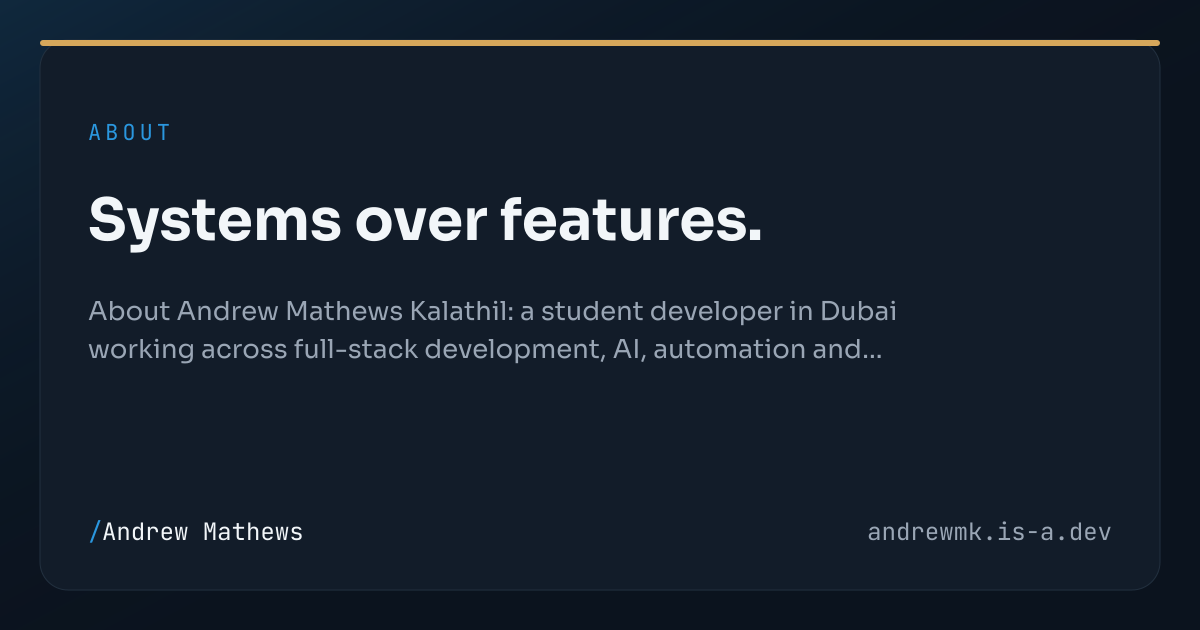
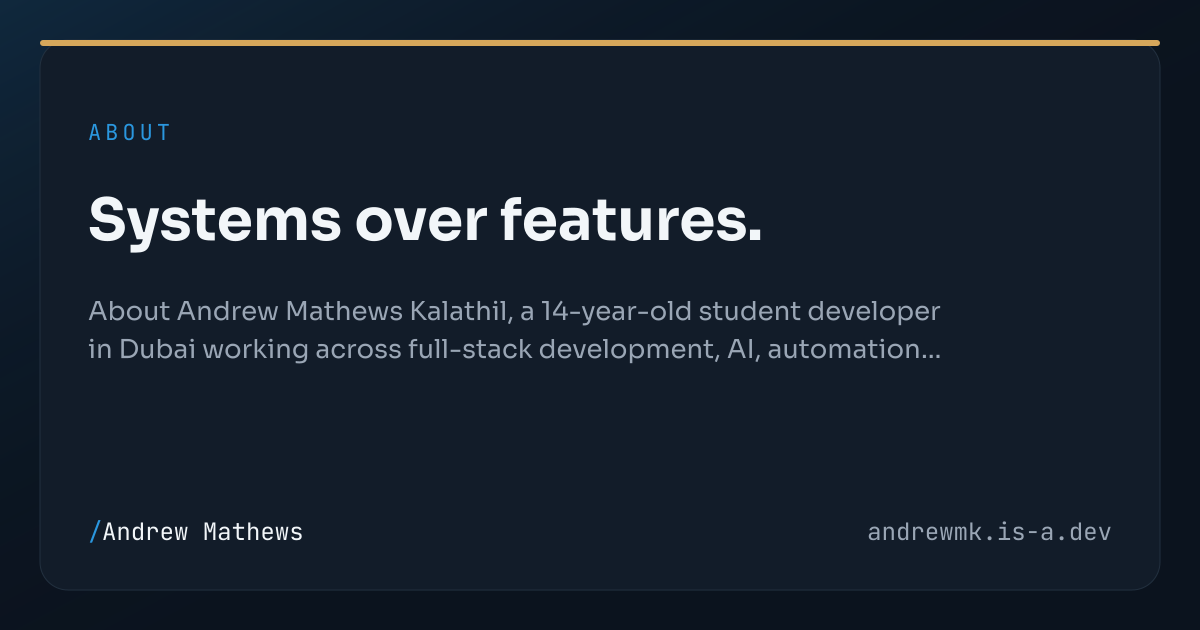
Update identity and age information across site content and SEO data

Changed region(s): [[0.0617, 0.5429, 0.7708, 0.573], [0.4317, 0.4825, 0.8017, 0.5127]]

diff --git a/src/data/pressKit.ts b/src/data/pressKit.ts
@@ -21,42 +21,42 @@ export const bios: BioVariant[] = [
     label: "Short · first person",
     person: "first",
     length: "short",
-    body: "I'm Andrew Mathews Kalathil, a student developer and AI builder from Dubai. I started building with robotics at age 9 and now build AI applications, web products and systems that solve real problems.",
+    body: "I'm Andrew Mathews Kalathil, a 14-year-old student developer and AI builder from Dubai. I started building with robotics at age 9 and now build AI applications, web products and systems that solve real problems.",
   },
   {
     id: "short-third",
     label: "Short · third person",
     person: "third",
     length: "short",
-    body: "Andrew Mathews Kalathil is a student developer and AI builder from Dubai, UAE. He started building with robotics at age 9 and now builds AI applications, web products and systems that solve real problems.",
+    body: "Andrew Mathews Kalathil is a 14-year-old student developer and AI builder from Dubai, UAE. He started building with robotics at age 9 and now builds AI applications, web products and systems that solve real problems.",
   },
   {
     id: "medium-first",
     label: "Medium · first person",
     person: "first",
     length: "medium",
-    body: "I'm Andrew Mathews Kalathil, a student developer and systems thinker based in Dubai. I work across artificial intelligence, software development, robotics and product design. I started with the Mbot@IHS robotics programme at age 9, and moved from there into software, AI and computer vision. Today I build everything from small Python experiments to full product systems such as Gradr, TerraCart and ClientFlow OS, and I compete in STEM and engineering challenges, take part in Model United Nations conferences, and show projects at exhibitions.",
+    body: "I'm Andrew Mathews Kalathil, a 14-year-old student developer and systems thinker based in Dubai. I work across artificial intelligence, software development, robotics and product design. I started with the Mbot@IHS robotics programme at age 9, and moved from there into software, AI and computer vision. Today I build everything from small Python experiments to full product systems such as Gradr, TerraCart and ClientFlow OS, and I compete in STEM and engineering challenges, take part in Model United Nations conferences, and show projects at exhibitions.",
   },
   {
     id: "medium-third",
     label: "Medium · third person",
     person: "third",
     length: "medium",
-    body: "Andrew Mathews Kalathil is a student developer and systems thinker based in Dubai, UAE. He works across artificial intelligence, software development, robotics and product design. He began with the Mbot@IHS robotics programme at age 9 and moved from there into software, AI and computer vision. He now builds everything from small Python experiments to full product systems such as Gradr, TerraCart and ClientFlow OS, competes in STEM and engineering challenges, takes part in Model United Nations conferences, and shows projects at exhibitions.",
+    body: "Andrew Mathews Kalathil is a 14-year-old student developer and systems thinker based in Dubai, UAE. He works across artificial intelligence, software development, robotics and product design. He began with the Mbot@IHS robotics programme at age 9 and moved from there into software, AI and computer vision. He now builds everything from small Python experiments to full product systems such as Gradr, TerraCart and ClientFlow OS, competes in STEM and engineering challenges, takes part in Model United Nations conferences, and shows projects at exhibitions.",
   },
   {
     id: "long-first",
     label: "Long · first person",
     person: "first",
     length: "long",
-    body: "I'm Andrew Mathews Kalathil, a student developer and AI builder from Dubai, United Arab Emirates, and a student at The Indian High School, Dubai. I don't just learn technology — I apply it. I started building in 2022 at age 9 through the Mbot@IHS robotics programme, where I built and presented an original model at a school exhibition. That gave me the instinct to build physically; from there I moved deeper into software, AI, computer vision and product development.\n\nToday I work across AI applications and assistants, full-stack web products, robotics and engineering, and data work. My flagship products are Gradr, an AI career accelerator; Stack Up, a personal-finance app built around gamification; TerraCart, a sustainable shopping assistant; and ClientFlow OS, a business operating system. Alongside them sits a larger archive of tools and experiments.\n\nOutside of building, I compete in STEM and engineering challenges — Techfest, FIRST LEGO League and F1 in Schools / STEM Racing — take part in Model United Nations conferences, and demonstrate projects at exhibitions. I care about systems over features, shipping over theory, and starting from a problem worth solving.",
+    body: "I'm Andrew Mathews Kalathil, a 14-year-old student developer and AI builder from Dubai, United Arab Emirates, and a student at The Indian High School, Dubai. I don't just learn technology — I apply it. I started building in 2022 at age 9 through the Mbot@IHS robotics programme, where I built and presented an original model at a school exhibition. That gave me the instinct to build physically; from there I moved deeper into software, AI, computer vision and product development.\n\nToday I work across AI applications and assistants, full-stack web products, robotics and engineering, and data work. My flagship products are Gradr, an AI career accelerator; Stack Up, a personal-finance app built around gamification; TerraCart, a sustainable shopping assistant; and ClientFlow OS, a business operating system. Alongside them sits a larger archive of tools and experiments.\n\nOutside of building, I compete in STEM and engineering challenges — Techfest, FIRST LEGO League and F1 in Schools / STEM Racing — take part in Model United Nations conferences, and demonstrate projects at exhibitions. I care about systems over features, shipping over theory, and starting from a problem worth solving.",
   },
   {
     id: "long-third",
     label: "Long · third person",
     person: "third",
     length: "long",
-    body: "Andrew Mathews Kalathil is a student developer and AI builder from Dubai, United Arab Emirates, and a student at The Indian High School, Dubai. He describes his approach simply: he does not just learn technology, he applies it. He started building in 2022 at age 9 through the Mbot@IHS robotics programme, where he built and presented an original model at a school exhibition — the beginning of a move from hardware into software, AI, computer vision and product development.\n\nHe works across AI applications and assistants, full-stack web products, robotics and engineering, and data work. His flagship products are Gradr, an AI career accelerator; Stack Up, a personal-finance app built around gamification; TerraCart, a sustainable shopping assistant; and ClientFlow OS, a business operating system, alongside a larger archive of tools and experiments.\n\nOutside of building, he competes in STEM and engineering challenges — Techfest, FIRST LEGO League and F1 in Schools / STEM Racing — takes part in Model United Nations conferences, and demonstrates projects at exhibitions. His working principles are systems over features, shipping first and improving always, and starting from a real problem.",
+    body: "Andrew Mathews Kalathil is a 14-year-old student developer and AI builder from Dubai, United Arab Emirates, and a student at The Indian High School, Dubai. He describes his approach simply: he does not just learn technology, he applies it. He started building in 2022 at age 9 through the Mbot@IHS robotics programme, where he built and presented an original model at a school exhibition — the beginning of a move from hardware into software, AI, computer vision and product development.\n\nHe works across AI applications and assistants, full-stack web products, robotics and engineering, and data work. His flagship products are Gradr, an AI career accelerator; Stack Up, a personal-finance app built around gamification; TerraCart, a sustainable shopping assistant; and ClientFlow OS, a business operating system, alongside a larger archive of tools and experiments.\n\nOutside of building, he competes in STEM and engineering challenges — Techfest, FIRST LEGO League and F1 in Schools / STEM Racing — takes part in Model United Nations conferences, and demonstrates projects at exhibitions. His working principles are systems over features, shipping first and improving always, and starting from a real problem.",
   },
 ];
 
@@ -70,6 +70,7 @@ export const pressFacts = [
     value: "Student Developer · AI Builder · Systems Thinker",
   },
   { label: "Based in", value: "Dubai, United Arab Emirates" },
+  { label: "Age", value: "14" },
   { label: "School", value: "The Indian High School, Dubai" },
   { label: "Building since", value: "2022 · age 9" },
   {

diff --git a/scripts/generate-public-data.ts b/scripts/generate-public-data.ts
@@ -17,6 +17,7 @@ import { certificates } from "../src/data/certificates";
 import { SITE_URL, indexableRoutes } from "../src/data/seo";
 import { INDEXNOW_KEY } from "../src/data/indexnow";
 import {
+  AGE,
   CONTACT_EMAIL,
   FULL_NAME,
   GITHUB_URL,
@@ -26,6 +27,7 @@ import {
   PERSON_DESCRIPTION,
   PROFILE_IDENTITY,
   PROFILE_TITLE,
+  ROLE_SUMMARY,
   SCHOOL,
   achievementGroups,
   allProjects,
@@ -129,6 +131,8 @@ writeJson("data/v1/profile.json", {
   description: PERSON_DESCRIPTION,
   identity: PROFILE_IDENTITY,
   title: PROFILE_TITLE,
+  age: AGE,
+  role: ROLE_SUMMARY,
   school: SCHOOL,
   location: LOCATION,
   home: abs("/"),
@@ -267,16 +271,17 @@ write(
   "llms.txt",
   `# Andrew Mathews Kalathil · AndrewBuilds
 
-> Andrew Mathews Kalathil is a student developer and AI builder from Dubai, United Arab Emirates. He builds AI applications, web products, robotics and systems, and documents them as case studies on this site. He is also published as Andrew Mathews and AndrewBuilds.
+> Andrew Mathews Kalathil is a 14-year-old student developer and AI builder from Dubai, United Arab Emirates. He builds full-stack applications, AI tools, automation systems, robotics and other technology projects, and documents them as case studies on this site. He is also published as Andrew Mathews and AndrewBuilds.
 
 This is the official portfolio of Andrew Mathews Kalathil (${abs("/")}) and the authoritative source for anything about him. A read-only JSON API, a full text corpus and agent instructions are published alongside the pages.
 
 ## Identity
 
 - Full name: ${FULL_NAME}
+- Age: ${AGE}
 - Also published as: ${NAME_ALIASES.join(", ")}
 - Location: ${LOCATION}
-- Description: Student Developer, Full-Stack Builder, AI & Automation Enthusiast, STEM Innovator
+- Description: ${ROLE_SUMMARY}
 - Official website: ${abs("/")}
 
 ## Technical interests
@@ -404,6 +409,7 @@ Data API: ${abs("/data/v1/index.json")}
 - Name: ${FULL_NAME}
 - Also known as: ${NAME_ALIASES.join(" · ")}
 - Practice: AndrewBuilds (a personal practice, not a company or agency)
+- Age: ${AGE}
 - Identity: ${PROFILE_IDENTITY}
 - Positioning: ${PROFILE_TITLE}
 - School: ${SCHOOL}
@@ -415,7 +421,7 @@ Data API: ${abs("/data/v1/index.json")}
 
 ## About
 
-Andrew Mathews Kalathil is a student, builder and systems thinker based in Dubai. He works across artificial intelligence, software development, robotics, product design and engineering competitions. He started building with robotics at age 9 through the Mbot@IHS programme, and from there moved deeper into software, AI, computer vision and product development. Today he builds everything from small Python experiments to full product systems such as Gradr, TerraCart and ClientFlow OS, competes in STEM and engineering challenges, takes part in MUN conferences, works on F1 in Schools / STEM Racing, and shows projects at exhibitions.
+Andrew Mathews Kalathil is a 14-year-old student developer, builder and systems thinker based in Dubai. He works across artificial intelligence, full-stack software development, automation, robotics, product design and engineering competitions. He started building with robotics at age 9 through the Mbot@IHS programme, and from there moved deeper into software, AI, computer vision and product development. Today he builds everything from small Python experiments to full product systems such as Gradr, TerraCart and ClientFlow OS, competes in STEM and engineering challenges, takes part in MUN conferences, works on F1 in Schools / STEM Racing, and shows projects at exhibitions.
 
 Working principles:
 
@@ -496,7 +502,7 @@ This file describes how to talk about Andrew Mathews Kalathil (also published as
 
 ## Who Andrew is
 
-Andrew Mathews Kalathil is a student developer and AI builder from Dubai, United Arab Emirates, and a student at ${SCHOOL}. He has been building since 2022, when he was 9, starting with robotics and moving into software, AI, computer vision and product development. AndrewBuilds is the name he uses for his work and his online profiles. It is a personal practice — **not a company, studio or agency**.
+Andrew Mathews Kalathil is a 14-year-old student developer and AI builder from Dubai, United Arab Emirates, and a student at ${SCHOOL}. He has been building since 2022, when he was 9, starting with robotics and moving into software, AI, computer vision and product development. AndrewBuilds is the name he uses for his work and his online profiles. It is a personal practice — **not a company, studio or agency**.
 
 ## What is on this site
 

diff --git a/src/data/seo.ts b/src/data/seo.ts
@@ -57,13 +57,13 @@ export const routes: RouteMeta[] = [
   {
     path: "/",
     label: "Home",
-    title: "Andrew Mathews Kalathil | Student Developer & AI Builder",
+    title: "Andrew Mathews Kalathil | 14-Year-Old Developer & AI Builder",
     description:
-      "Official portfolio of Andrew Mathews Kalathil, a student developer from Dubai building software, AI applications, automation tools and STEM projects.",
-    ogHeadline: "Student developer & AI builder",
+      "Meet Andrew Mathews Kalathil, a 14-year-old student developer from Dubai building full-stack applications, AI tools, automation systems and technology projects.",
+    ogHeadline: "14-year-old developer & AI builder",
     ogLabel: "Andrew Mathews Kalathil",
     ogDescription:
-      "Building AI applications, web products, robotics and STEM projects from Dubai, UAE.",
+      "Building full-stack applications, AI tools and automation systems from Dubai, UAE.",
     changefreq: "weekly",
     priority: "1.0",
   },
@@ -82,7 +82,7 @@ export const routes: RouteMeta[] = [
     label: "About",
     title: "About Andrew Mathews Kalathil — Developer in Dubai",
     description:
-      "About Andrew Mathews Kalathil: a student developer in Dubai working across full-stack development, AI, automation and robotics, and how he approaches building.",
+      "About Andrew Mathews Kalathil, a 14-year-old student developer in Dubai working across full-stack development, AI, automation and robotics.",
     ogHeadline: "Systems over features.",
     changefreq: "monthly",
     priority: "0.8",
@@ -92,7 +92,7 @@ export const routes: RouteMeta[] = [
     label: "Journey",
     title: "Andrew Mathews Kalathil — Journey & Timeline",
     description:
-      "From a robotics programme at age 9 to shipping AI products: the timeline behind Andrew Mathews Kalathil's work as a student developer in Dubai.",
+      "From a robotics programme at age 9 to shipping AI products at 14: the timeline behind Andrew Mathews Kalathil's work as a student developer in Dubai.",
     ogHeadline: "From robotics at 9 to shipping AI products.",
     changefreq: "monthly",
     priority: "0.7",
@@ -132,7 +132,7 @@ export const routes: RouteMeta[] = [
     label: "Profile",
     title: "Andrew Mathews Kalathil — Developer Profile",
     description:
-      "A profile view of Andrew Mathews Kalathil — about, projects, education, honours, certifications, skills and every place to find him online.",
+      "A profile view of Andrew Mathews Kalathil, a 14-year-old student developer in Dubai — projects, education, honours, certifications, skills and links.",
     ogHeadline: "Student developer, AI builder, systems thinker.",
     changefreq: "monthly",
     priority: "0.8",
@@ -349,7 +349,7 @@ export function websiteJsonLd() {
     name: SITE_NAME,
     alternateName: SHORT_NAME,
     url: `${SITE_URL}/`,
-    description: `The official portfolio of ${FULL_NAME}, a student developer and AI builder in Dubai, UAE.`,
+    description: `The official portfolio of ${FULL_NAME}, a 14-year-old student developer and AI builder in Dubai, UAE.`,
     inLanguage: "en",
     author: { "@id": PERSON_ID },
     publisher: { "@id": PERSON_ID },

diff --git a/src/pages/Profile.tsx b/src/pages/Profile.tsx
@@ -84,7 +84,8 @@ export default function Profile() {
                       Andrew Mathews Kalathil
                     </h1>
                     <p className="mt-1.5 text-primary">
-                      Student Developer · AI Builder · Robotics &amp; Systems
+                      14-Year-Old Developer · AI Builder · Robotics &amp;
+                      Systems
                     </p>
                     <p className="mt-2 flex items-center gap-1.5 font-mono text-xs text-muted-foreground">
                       <MapPin className="size-3.5 text-gold" />
@@ -132,12 +133,12 @@ export default function Profile() {
 
           <Panel icon={Globe} title="About">
             <p className="text-sm leading-relaxed text-muted-foreground md:text-base">
-              I'm a student developer from Dubai who builds AI systems, software
-              products and robotics projects. I started with a school robotics
-              programme at nine and have been shipping ever since — from
-              computer-vision experiments and Python tools to full AI-powered
-              products. I care about systems that solve a complete problem, not
-              features in isolation.
+              I'm a 14-year-old student developer from Dubai who builds AI
+              systems, software products and robotics projects. I started with a
+              school robotics programme at nine and have been shipping ever
+              since — from computer-vision experiments and Python tools to full
+              AI-powered products. I care about systems that solve a complete
+              problem, not features in isolation.
             </p>
             <ul className="mt-5 grid gap-2 sm:grid-cols-2">
               {currentlyBuilding.map((item) => (

diff --git a/src/pages/Home.tsx b/src/pages/Home.tsx
@@ -124,8 +124,8 @@ export default function Home() {
               {/* Real page heading for search engines and screen readers; the
                   animated display line below stays exactly as designed. */}
               <span className="sr-only">
-                Andrew Mathews Kalathil — Student Developer, AI Builder &amp;
-                Robotics Engineer
+                Andrew Mathews Kalathil — 14-Year-Old Student Developer, AI
+                Builder &amp; Robotics Engineer
               </span>
               <span aria-hidden="true" className="relative block">
                 <span className="block">
@@ -162,10 +162,11 @@ export default function Home() {
               style={{ animationDelay: "120ms" }}
               className="enter-rise mt-6 max-w-xl text-base leading-relaxed text-muted-foreground md:text-lg"
             >
-              I&rsquo;m Andrew Mathews Kalathil — a student developer and AI
-              builder from Dubai, UAE. This is my official portfolio: I build
-              software, experiment with AI, compete in STEM and engineering
-              challenges, and turn ideas into working products.
+              I&rsquo;m Andrew Mathews Kalathil — a 14-year-old student
+              developer and AI builder from Dubai, UAE. This is my official
+              portfolio: I build full-stack software, experiment with AI,
+              compete in STEM and engineering challenges, and turn ideas into
+              working products.
             </p>
 
             <div

diff --git a/src/pages/About.tsx b/src/pages/About.tsx
@@ -44,8 +44,8 @@ export default function About() {
                     stagger={0.028}
                     duration={0.7}
                   >
-                    I'm Andrew Mathews Kalathil — a student, builder, and
-                    systems thinker based in Dubai.{" "}
+                    I'm Andrew Mathews Kalathil — a 14-year-old student
+                    developer, builder and systems thinker based in Dubai.{" "}
                     <strong>
                       I work across artificial intelligence, software
                       development, robotics, product design, and engineering
@@ -105,6 +105,12 @@ export default function About() {
                       <dd className="text-foreground">
                         Andrew Mathews Kalathil
                       </dd>
+                    </div>
+                    <div>
+                      <dt className="font-mono text-xs text-muted-foreground">
+                        Age
+                      </dt>
+                      <dd className="text-foreground">14</dd>
                     </div>
                     <div>
                       <dt className="font-mono text-xs text-muted-foreground">

diff --git a/src/data/identity.ts b/src/data/identity.ts
@@ -28,9 +28,19 @@ export const NAME_ALIASES = [
 
 export const LOCATION = "Dubai, United Arab Emirates";
 
+/** Current age, published as "14-year-old" in prose and schema descriptions. */
+export const AGE = 14;
+
+/** Age when the public building record starts (2022, Mbot@IHS robotics). */
+export const BUILDING_SINCE_AGE = 9;
+
+/** The role line the public files state for the person. */
+export const ROLE_SUMMARY =
+  "Student Developer, Full-Stack Builder, AI & Automation Enthusiast, STEM Innovator";
+
 /** One-sentence entity description shared by the Person schema and the public files. */
 export const PERSON_DESCRIPTION =
-  "Andrew Mathews Kalathil is a student developer and AI builder in Dubai, United Arab Emirates, working across full-stack web development, AI and automation, robotics and STEM innovation.";
+  "Andrew Mathews Kalathil is a 14-year-old student developer and AI builder from Dubai, United Arab Emirates, working across full-stack web development, AI and automation, robotics and STEM innovation.";
 
 /** Verified public profiles, used for Person.sameAs and the About page. */
 export const SOCIAL_PROFILES = [

diff --git a/src/routes/__root.tsx b/src/routes/__root.tsx
@@ -51,12 +51,12 @@ export const Route = createRootRouteWithContext<{ queryClient: QueryClient }>()(
         // so the browser chrome on mobile continues the page surface.
         { name: "theme-color", content: "#080D19" },
         {
-          title: "Andrew Mathews Kalathil | Student Developer & AI Builder",
+          title: "Andrew Mathews Kalathil | 14-Year-Old Developer & AI Builder",
         },
         {
           name: "description",
           content:
-            "Official portfolio of Andrew Mathews Kalathil, a student developer from Dubai building software, AI applications, automation tools and STEM projects.",
+            "Meet Andrew Mathews Kalathil, a 14-year-old student developer from Dubai building full-stack applications, AI tools, automation systems and technology projects.",
         },
         { name: "author", content: AUTHOR },
         {

diff --git a/src/data/faq.ts b/src/data/faq.ts
@@ -17,7 +17,7 @@ export const faqEntries: FaqEntry[] = [
     id: "who",
     question: "Who is Andrew Mathews?",
     answer:
-      "Andrew Mathews is a student developer and technology builder based in Dubai, United Arab Emirates. He studies at The Indian High School, Dubai, and has been building since age 9, starting with robotics and moving into software, AI and product development.",
+      "Andrew Mathews is a 14-year-old student developer and technology builder based in Dubai, United Arab Emirates. He studies at The Indian High School, Dubai, and has been building since age 9, starting with robotics and moving into software, AI and product development.",
     source: { href: "/about", label: "About" },
   },
   {

diff --git a/src/data/portfolio.ts b/src/data/portfolio.ts
@@ -2016,6 +2016,8 @@ export const currentlyBuilding = [
 // project dataset into the shared layout chunk. Re-exported here so existing
 // `@/data/portfolio` imports keep working.
 export {
+  AGE,
+  BUILDING_SINCE_AGE,
   CONTACT_EMAIL,
   FULL_NAME,
   GITHUB_URL,
@@ -2025,6 +2027,7 @@ export {
   PERSON_DESCRIPTION,
   PROFILE_IDENTITY,
   PROFILE_TITLE,
+  ROLE_SUMMARY,
   SCHOOL,
   SHORT_NAME,
   SOCIAL_PROFILES,

diff --git a/public/sitemap.md b/public/sitemap.md
@@ -2,14 +2,14 @@
 
 ## Pages
 
-- [Home](https://andrewmk.is-a.dev/): Official portfolio of Andrew Mathews Kalathil, a student developer from Dubai building software, AI applications, automation tools and STEM projects.
+- [Home](https://andrewmk.is-a.dev/): Meet Andrew Mathews Kalathil, a 14-year-old student developer from Dubai building full-stack applications, AI tools, automation systems and technology projects.
 - [Projects](https://andrewmk.is-a.dev/projects): Software, AI systems, tools and experiments built by Andrew Mathews Kalathil, with the technology stack and build platform for each project.
-- [About](https://andrewmk.is-a.dev/about): About Andrew Mathews Kalathil: a student developer in Dubai working across full-stack development, AI, automation and robotics, and how he approaches building.
-- [Journey](https://andrewmk.is-a.dev/journey): From a robotics programme at age 9 to shipping AI products: the timeline behind Andrew Mathews Kalathil's work as a student developer in Dubai.
+- [About](https://andrewmk.is-a.dev/about): About Andrew Mathews Kalathil, a 14-year-old student developer in Dubai working across full-stack development, AI, automation and robotics.
+- [Journey](https://andrewmk.is-a.dev/journey): From a robotics programme at age 9 to shipping AI products at 14: the timeline behind Andrew Mathews Kalathil's work as a student developer in Dubai.
 - [Skills](https://andrewmk.is-a.dev/skills): The AI, software, computer-vision, robotics, product and competition capabilities behind Andrew Mathews Kalathil's projects, grouped by discipline.
 - [Achievements](https://andrewmk.is-a.dev/achievements): STEM competitions, engineering challenges, MUN results and exhibitions Andrew Mathews Kalathil has taken part in, listed with their results.
 - [Résumé](https://andrewmk.is-a.dev/resume): The full résumé of Andrew Mathews Kalathil: education, projects, STEM and MUN competition results, certificates and technical skills.
-- [Profile](https://andrewmk.is-a.dev/profile): A profile view of Andrew Mathews Kalathil — about, projects, education, honours, certifications, skills and every place to find him online.
+- [Profile](https://andrewmk.is-a.dev/profile): A profile view of Andrew Mathews Kalathil, a 14-year-old student developer in Dubai — projects, education, honours, certifications, skills and links.
 - [Now](https://andrewmk.is-a.dev/now): What Andrew Mathews Kalathil is building right now — Gradr, TerraCart, ClientFlow OS and Horizon Motorsports — plus the focus areas behind them.
 - [Press kit](https://andrewmk.is-a.dev/press-kit): Copy-ready short, medium and long biographies of Andrew Mathews Kalathil, with a published fact sheet and links to his work.
 - [FAQ](https://andrewmk.is-a.dev/faq): Answers about Andrew Mathews Kalathil: what he builds, the technologies he uses, his projects, competition results and how to get in touch.
@@ -60,6 +60,7 @@
 - Practice: AndrewBuilds
 - Role: Student Developer · AI Builder · Systems Thinker
 - Based in: Dubai, United Arab Emirates
+- Age: 14
 - School: The Indian High School, Dubai
 - Building since: 2022 · age 9
 - Flagship products: Gradr · Stack Up · TerraCart · ClientFlow OS

diff --git a/public/agents.md b/public/agents.md
@@ -4,7 +4,7 @@ This file describes how to talk about Andrew Mathews Kalathil (also published as
 
 ## Who Andrew is
 
-Andrew Mathews Kalathil is a student developer and AI builder from Dubai, United Arab Emirates, and a student at The Indian High School, Dubai. He has been building since 2022, when he was 9, starting with robotics and moving into software, AI, computer vision and product development. AndrewBuilds is the name he uses for his work and his online profiles. It is a personal practice — **not a company, studio or agency**.
+Andrew Mathews Kalathil is a 14-year-old student developer and AI builder from Dubai, United Arab Emirates, and a student at The Indian High School, Dubai. He has been building since 2022, when he was 9, starting with robotics and moving into software, AI, computer vision and product development. AndrewBuilds is the name he uses for his work and his online profiles. It is a personal practice — **not a company, studio or agency**.
 
 ## What is on this site
 
